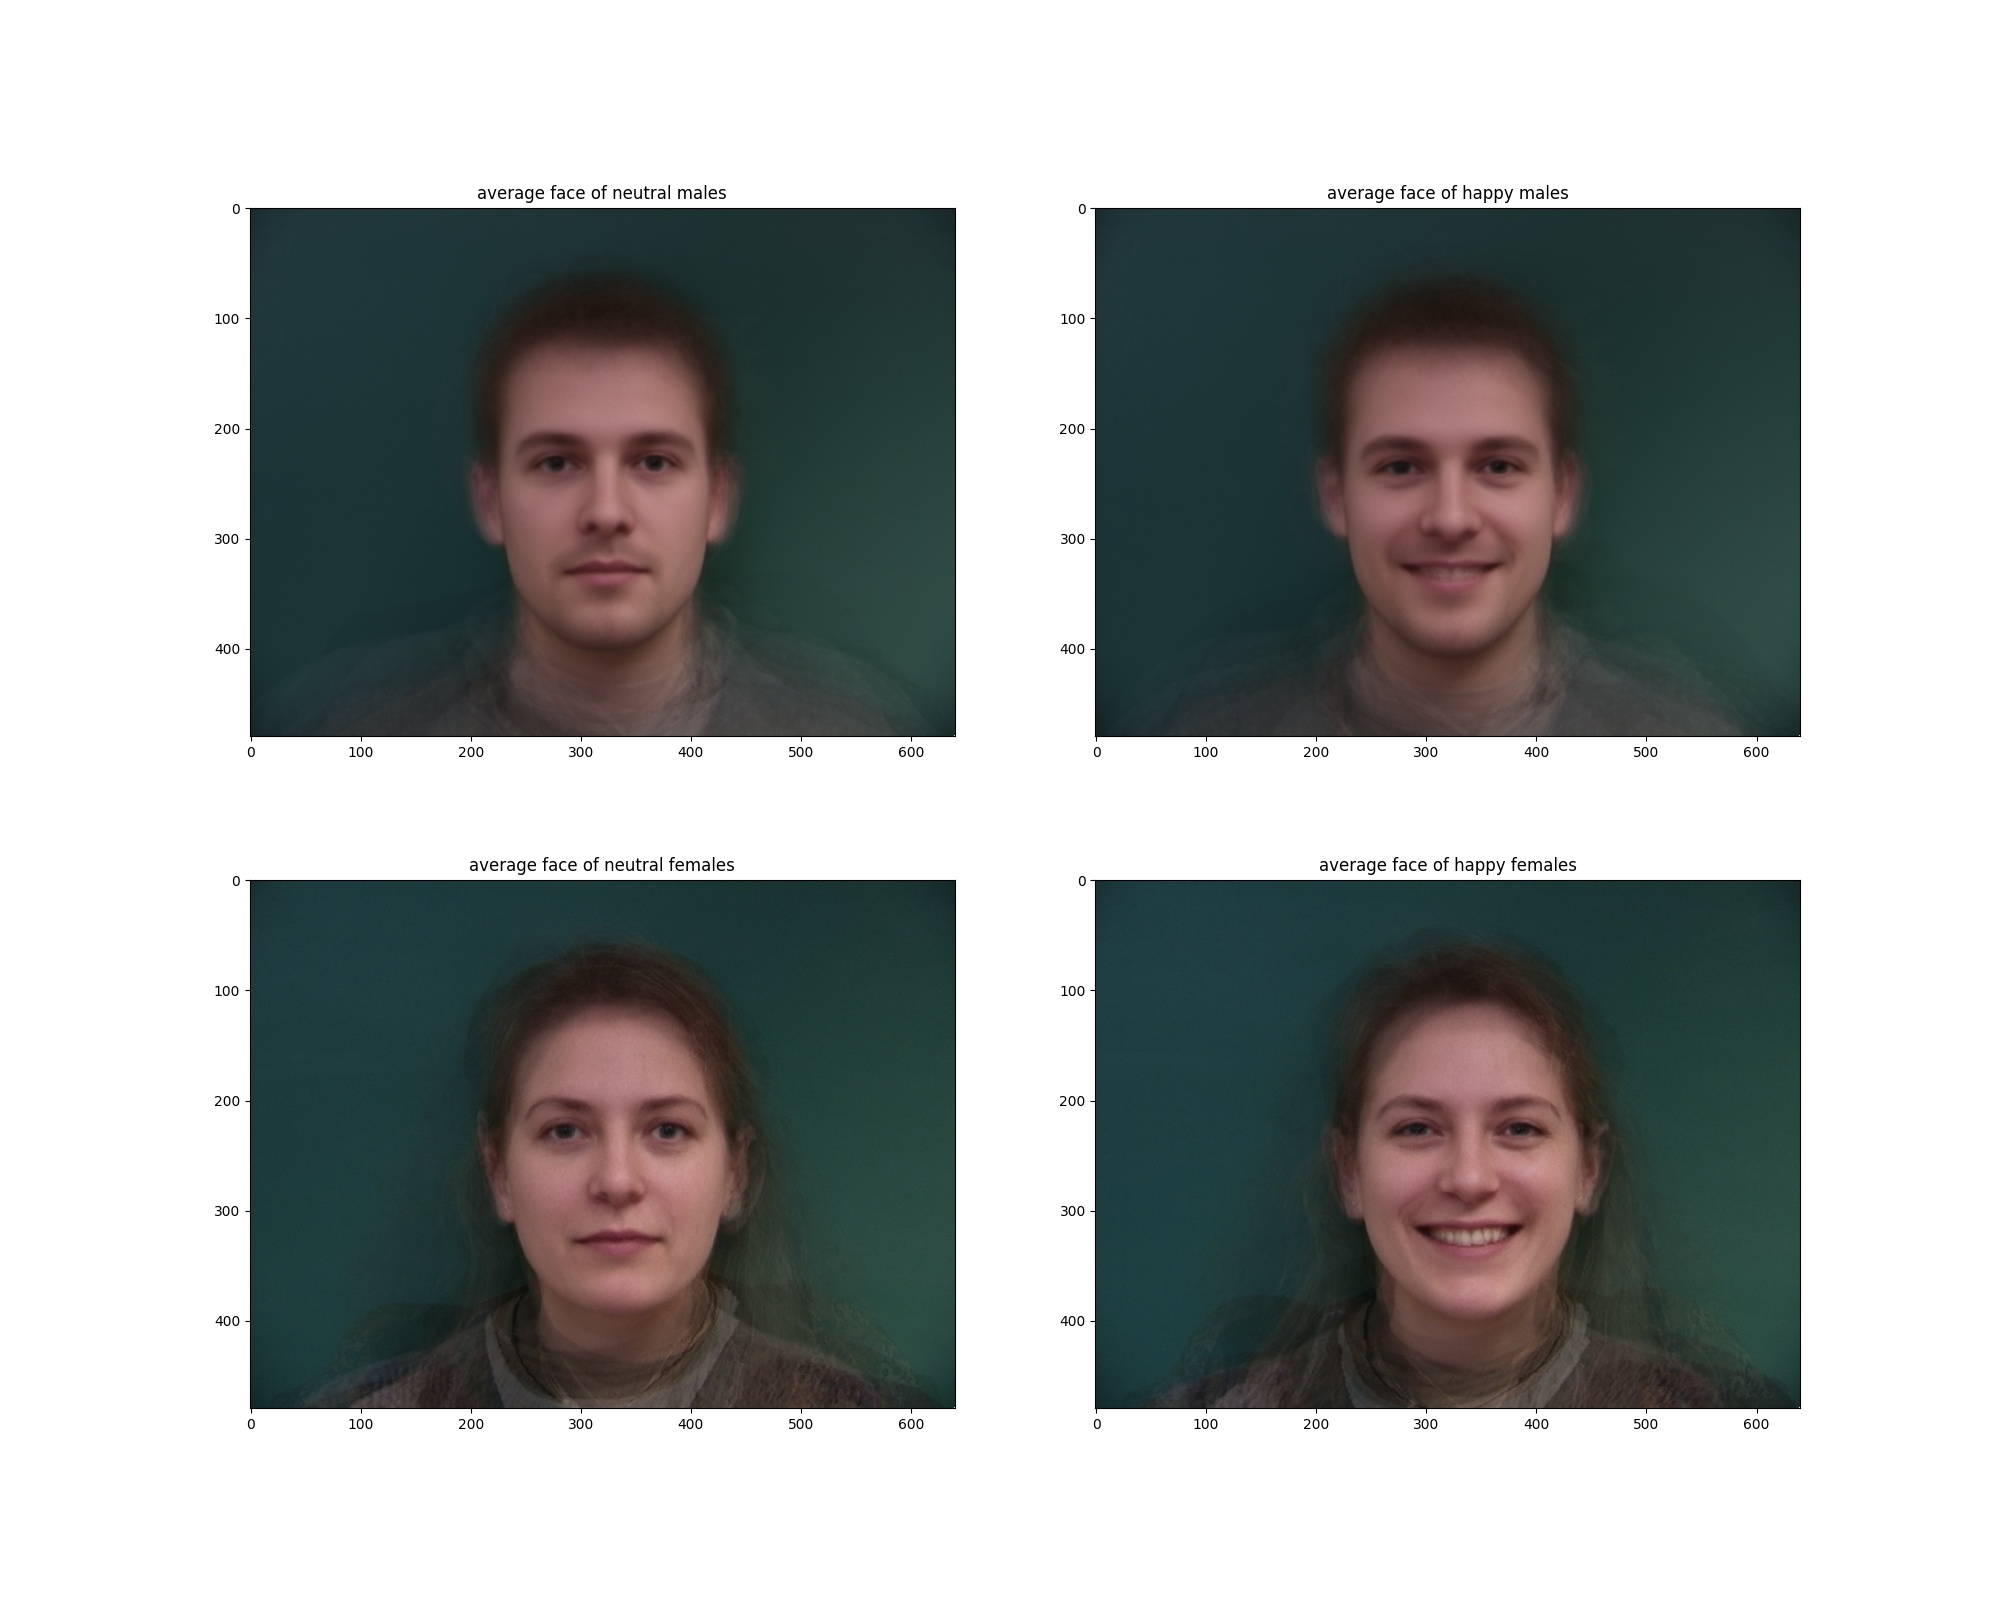
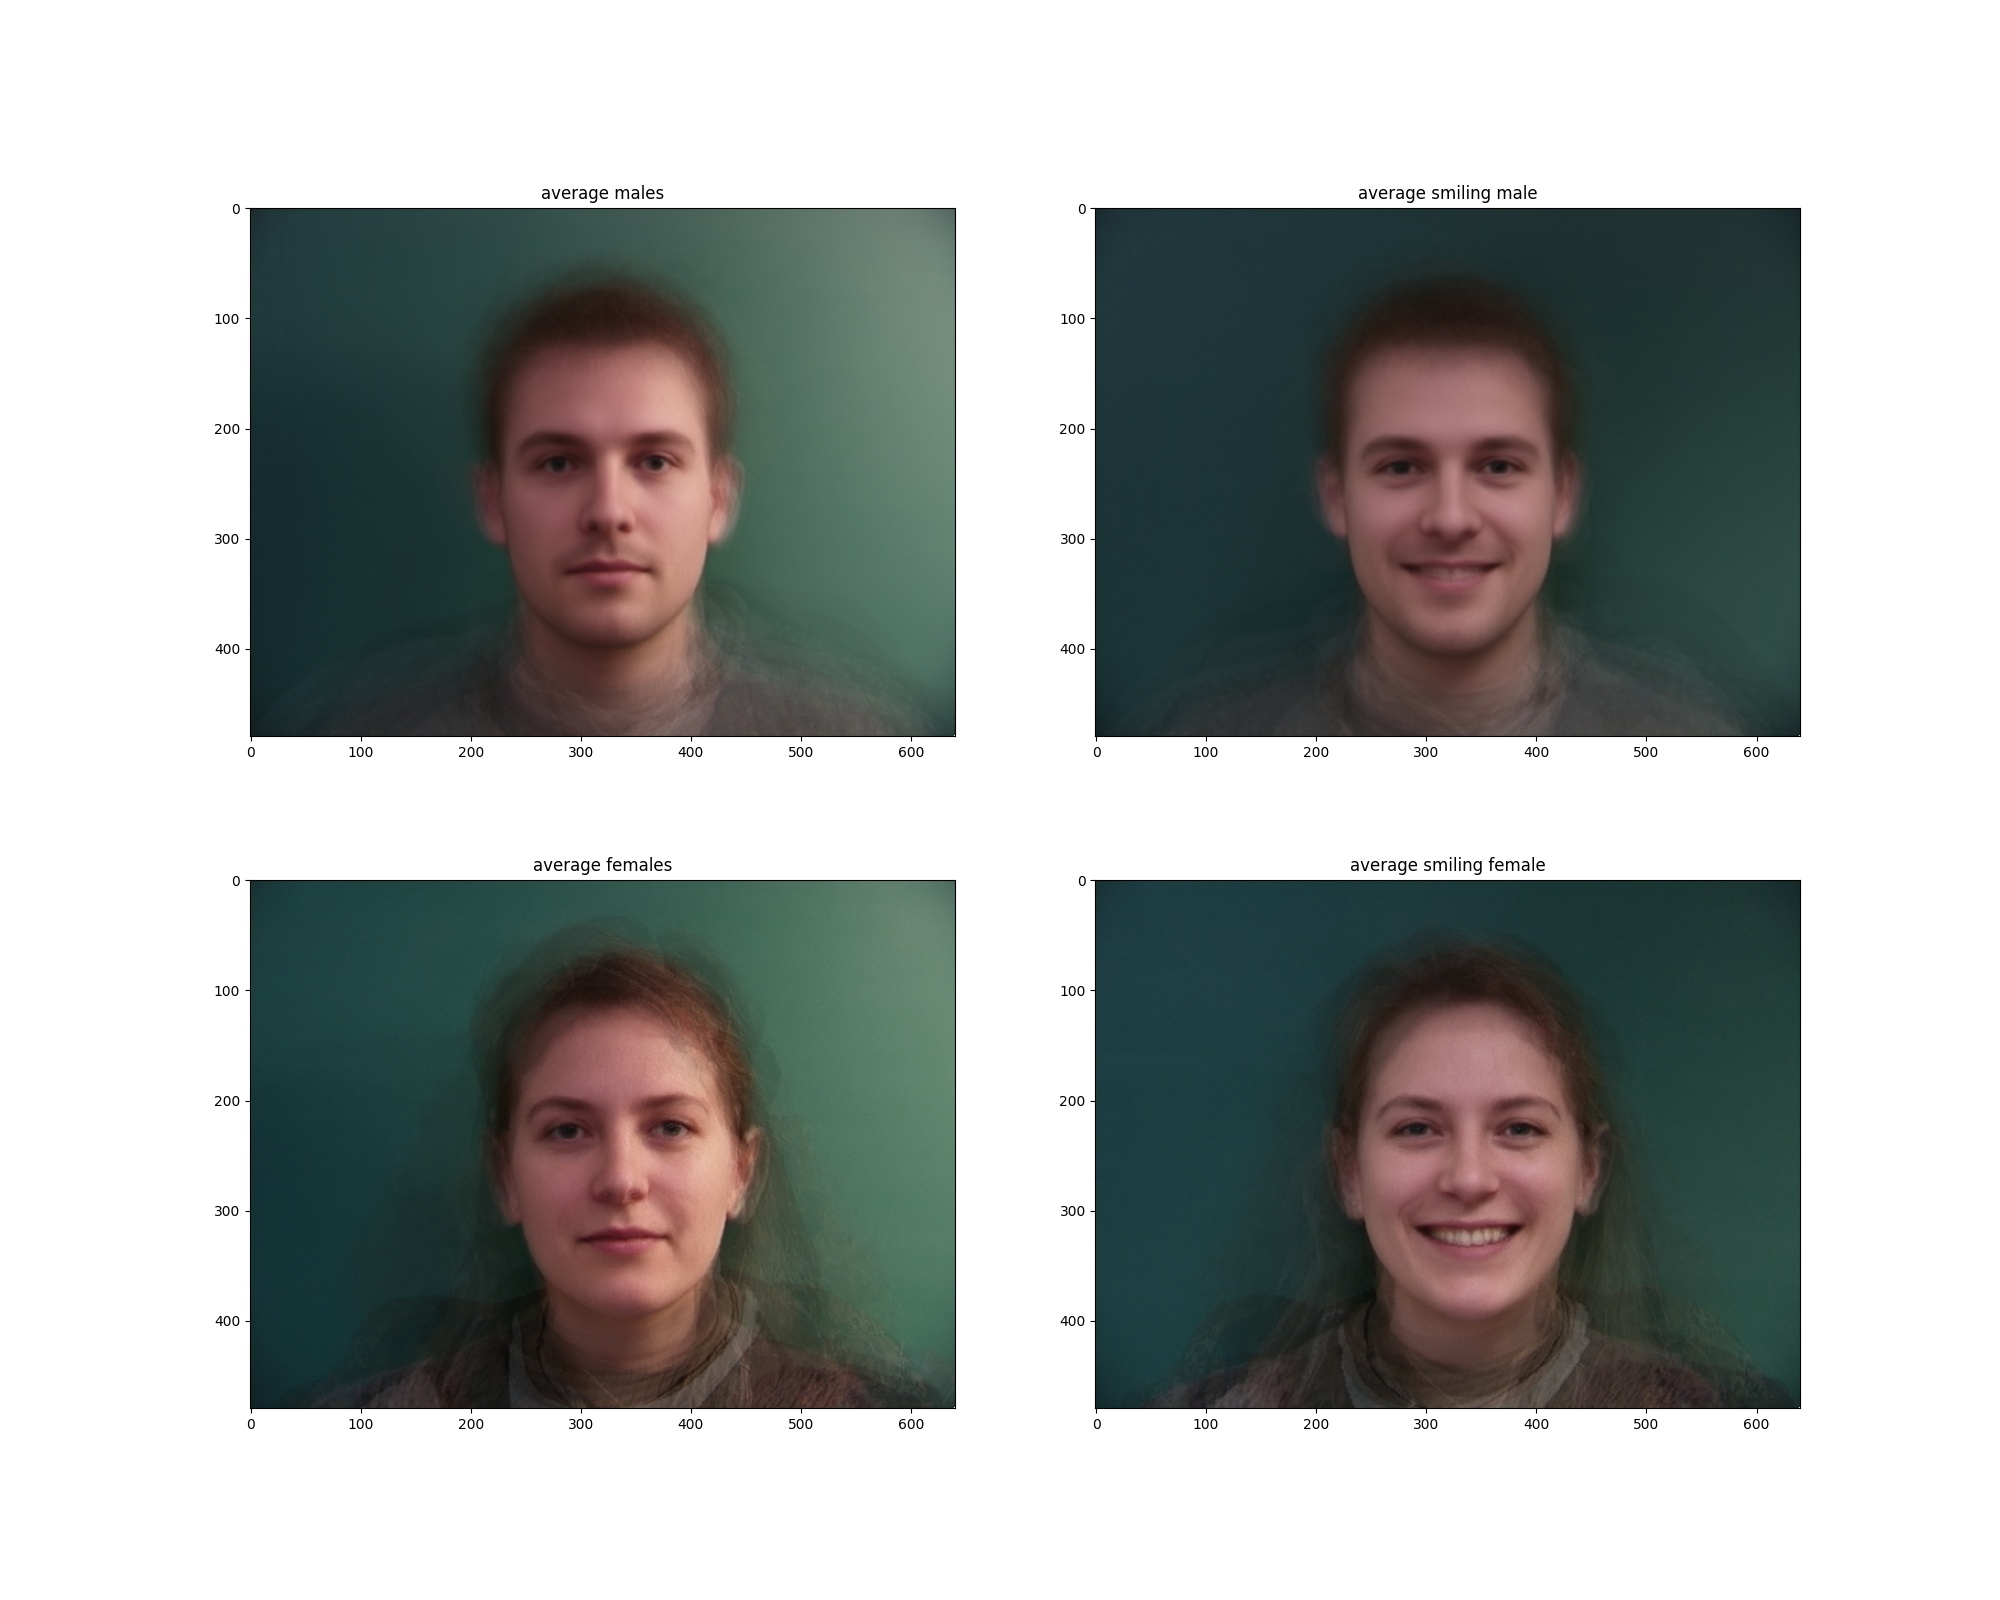
Update

diff --git a/main.py b/main.py
@@ -14,7 +14,8 @@ WIDTH = IMG_SHAPE[0]
 LENGTH = IMG_SHAPE[1]
 NUM_POINTS = 33
 
-def define_points(num_points, image):
+
+def select_points(num_points, image):
     plt.imshow(image)
     print("Select %d points." % num_points)
     points = np.array(plt.ginput(num_points, timeout=0))
@@ -34,8 +35,8 @@ if os.path.exists('target_points.npy'):
     target_points = np.load('target_points.npy')
     source_points = np.load('source_points.npy')
 else:
-    target_points = define_points(NUM_POINTS, target)
-    source_points = define_points(NUM_POINTS, source)
+    target_points = select_points(NUM_POINTS, target)
+    source_points = select_points(NUM_POINTS, source)
     # save points
     np.save("target_points.npy", target_points)
     np.save("source_points.npy", source_points)
@@ -43,16 +44,14 @@ else:
 
 # get the real matrix
 corners = np.array([
-    [0, 0],
-    [IMG_SHAPE[1]-1, 0],
-    [0, IMG_SHAPE[0]-1],
-    [IMG_SHAPE[1]-1, IMG_SHAPE[0]-1]
+    [0, 0], [LENGTH - 1, 0],
+    [0, WIDTH - 1], [LENGTH - 1, WIDTH-1]
 ])
 target_points = np.vstack([target_points, corners])
 source_points = np.vstack([source_points, corners])
 
 
-# triangulation
+# calculate triangulation
 mid_points = (target_points + source_points)/2
 triangulation = Delaunay(mid_points)
 
@@ -65,7 +64,7 @@ for i, (img, points) in enumerate(zip((target, source), (target_points, source_p
 
 plt.savefig('triangulation.jpg')
 
-
+# find the trans matrix
 def trans(points):
     vector1 = np.reshape((points[1] - points[0]), (2, 1))
     vector2 = np.reshape((points[2] - points[0]), (2, 1))
@@ -91,16 +90,16 @@ def compute_masks(target, source, target_points, source_points, triangulation, w
     masks = [np.zeros((WIDTH, LENGTH, 3)) for _ in range(3)]
     mid_pts = source_points + warp_frac * (target_points - source_points)
 
-    for tri_index in triangulation.simplices:
-        mid_tri = mid_pts[tri_index]
+    for index in triangulation.simplices:
+        mid_tri = mid_pts[index]
         v1, v2 = polygon(mid_tri[:, 0], mid_tri[:, 1])
         mid_basis = np.array([v1, v2])
         basis_mat = np.vstack([mid_basis, np.ones((1, mid_basis.shape[1]))])
 
-        tgt_basis = find_basis(target_points, tri_index, basis_mat, mid_tri)
+        tgt_basis = find_basis(target_points, index, basis_mat, mid_tri)
         masks[0][mid_basis[1], mid_basis[0]] = target[tgt_basis[1], tgt_basis[0]]
 
-        src_basis = find_basis(source_points, tri_index, basis_mat, mid_tri)
+        src_basis = find_basis(source_points, index, basis_mat, mid_tri)
         masks[2][mid_basis[1], mid_basis[0]] = source[src_basis[1], src_basis[0]]
 
     masks[1] = masks[2] + dissolve_frac * (masks[0] - masks[2])
@@ -108,23 +107,23 @@ def compute_masks(target, source, target_points, source_points, triangulation, w
 
 
 plt.figure(figsize=(15, 5))
-masks = compute_masks(target, source, target_points, source_points, triangulation, 0.5, 0.5)
+mid_faces = compute_masks(target, source, target_points, source_points, triangulation, 0.5, 0.5)
 for i in range(3):
     plt.subplot(1, 3, i + 1)
-    plt.imshow(masks[i])
-plt.savefig('midway_face.jpg')
+    plt.imshow(mid_faces[i])
+plt.savefig('mid_face.jpg')
 
 
-# generate morphing
+# generate morphing sequence
 NUM_FRAMES = 45
 results = []
 fig = plt.figure(figsize=(8, 10))
-for x in np.linspace(0, 1, NUM_FRAMES):
-    img = compute_masks(target, source, target_points, source_points, triangulation, x, x)[1]
+for frac in np.linspace(0, 1, NUM_FRAMES):
+    img = compute_masks(target, source, target_points, source_points, triangulation, frac, frac)[1]
     img = plt.imshow(img, animated=True)
     results.append([img])
 
-# generate animation and save
+# generate gif
 vid = animation.ArtistAnimation(
     fig,
     results,
@@ -132,35 +131,33 @@ vid = animation.ArtistAnimation(
     blit=True,
     repeat_delay=1000
 )
-vid.save('morphing.gif', fps=30)
-vid.save('morphing_slowmo.gif', fps=10)
+vid.save('morphing.gif', fps=20)
+vid.save('morphing_slow.gif', fps=10)
 
 
-
-
-
-
-# mean of a population
-
+# calculate mean of a population
 DIR = 'DB'
+img1 = plt.imread('DB/01-1m.jpg')
+W = img1.shape[0]
+L = img1.shape[1]
+corners = np.array([
+    [0, 0], [L-1, 0],
+    [0, W-1], [L-1, W-1]
+])
 
-def get_pts_from_file(filename, pad=True):
-    im = plt.imread('DB/01-1m.jpg')
 
+# get the points from dataset files
+def get_points(filename):
     data = open(filename, 'r').readlines()[16:74]
     data = [l.split('\t')[2:4] for l in data]
     relative_points = np.array(data).astype(float)
 
-    real_points = np.multiply(np.array([im.shape[1], im.shape[0]]), relative_points)
-    if pad:
-        corners = np.array([
-            [0, 0],
-            [im.shape[1]-1, 0], [0, im.shape[0]-1],
-            [im.shape[1]-1, im.shape[0]-1]
-        ])
-        real_points = np.vstack([real_points, corners])
+    real_points = np.multiply(np.array([L, W]), relative_points)
+    real_points = np.vstack([real_points, corners])
     return real_points
 
+
+# load all images with given keyword
 def load_imgs(keyword):
     images = []
     points = []
@@ -168,7 +165,7 @@ def load_imgs(keyword):
         basename, ext = os.path.splitext(filename)
         if keyword in basename and ext == '.jpg':
             images.append(plt.imread(os.path.join(DIR, filename)) / 255.)
-            pts = get_pts_from_file(os.path.join(DIR, basename + '.asf'))
+            pts = get_points(os.path.join(DIR, basename + '.asf'))
             points.append(pts)
     return images, points
 
@@ -192,7 +189,7 @@ def get_mean_face(images, pts):
 
     return result, mean_pts
 
-keywords = ['1m', '2m', '1f', '2f']
+keywords = ['5m', '2m', '5f', '2f']
 images = []
 points = []
 mean_faces = []
@@ -204,15 +201,14 @@ for i, keyword in enumerate(keywords):
 
     mean_face, mean_pts = get_mean_face(imgs, pts)
     mean_faces.append(mean_face)
-
     mean_points.append(mean_pts)
 
 # plot average faces
 titles = [
-    'average face of neutral males',
-    'average face of happy males',
-    'average face of neutral females',
-    'average face of happy females'
+    'average males',
+    'average smiling male',
+    'average females',
+    'average smiling female'
 ]
 plt.figure(figsize=(20, 16))
 for i in range(4):
@@ -237,6 +233,7 @@ def compute_warp(img_src, points_src, points_tgt, a=1.):
     points_mean = points_src + (points_tgt - points_src) / 2
     points_tgt = points_src + (points_tgt - points_src) * a
     triangulation = Delaunay(points_mean)
+    
     result = np.zeros((img_src.shape[0], img_src.shape[1], 3))
     for index in triangulation.simplices:
         triangle_tgt = points_tgt[index]
@@ -254,10 +251,10 @@ def compute_warp(img_src, points_src, points_tgt, a=1.):
 
 PID = 0
 titles = [
-    'neutral male',
-    'happy male',
-    'neutral female',
-    'happy female'
+    'male',
+    'smiling male',
+    'female',
+    'smiling female'
 ]
 plt.figure(figsize=(32, 10))
 for i in range(4):
@@ -270,6 +267,7 @@ for i in range(4):
     img = compute_warp(images[i][PID], points[i][PID], mean_points[i])
     plt.imshow(img)
 plt.savefig('DB/warp_to_mean.jpg')
+
 
 cropped_mean_faces = []
 cropped_mean_points = []
@@ -287,13 +285,14 @@ for face, pts in zip(mean_faces, mean_points):
     cropped_mean_faces.append(cropped_face)
     cropped_mean_points.append(cropped_points)
 
+
 # get coordinates
-img_source = sk.transform.resize(plt.imread('me.jpg'), cropped_mean_faces[0].shape)
+img_source = sk.transform.resize(plt.imread('me2.jpg'), cropped_mean_faces[0].shape)
 
 if os.path.exists('source_points_58.npy'):
     source_points = np.load('source_points_58.npy')
 else:
-    source_points = define_points(58, img_source)
+    source_points = select_points(58, img_source)
     padding = np.array([
         [0, 0],
         [img_source.shape[1] - 1, 0],
@@ -316,6 +315,6 @@ for i in range(4):
     plt.title(titles[i] + ' to me')
     img_from_avg = compute_warp(cropped_mean_faces[i], cropped_mean_points[i], source_points)
     plt.imshow(img_from_avg)
-plt.savefig('me_vs_avg.jpg')
+plt.savefig('warp_my_face.jpg')
 
 

diff --git a/test.py b/test.py
@@ -25,7 +25,7 @@ def define_points(num_points, image):
 
 
 
-img_source = sk.transform.resize(plt.imread('me.jpg'), [380,304])
+img_source = sk.transform.resize(plt.imread('me2.jpg'), [380,304])
 
 
 if os.path.exists('source_points_58.npy'):
@@ -41,34 +41,3 @@ else:
     source_points = np.vstack([source_points, padding])
     np.save('source_points_58.npy', source_points)
 
-
-
-
-
-def find_basis(points, index, basis_mat, mid_tri):
-    tri = points[index]
-    trans_mat = np.linalg.inv(computeAffine(tri, mid_tri))
-    new_basis = np.dot(trans_mat, basis_mat).astype(int)
-    return new_basis
-
-
-def compute_masks(target, source, target_points, source_points, triangulation, warp_frac, dissolve_frac):
-    if warp_frac < 0 or warp_frac > 1 or dissolve_frac < 0 or dissolve_frac > 1:
-        return None
-
-    masks = [np.zeros((WIDTH, LENGTH, 3)) for _ in range(3)]
-    mid_pts = source_points + warp_frac * (target_points - source_points)
-
-    for tri_index in triangulation.simplices:
-        mid_tri = mid_pts[tri_index]
-        mid_basis = np.array([polygon(mid_tri[:, 0], mid_tri[:, 1])])
-        basis_mat = np.vstack([mid_basis, np.ones((1, mid_basis.shape[1]))])
-
-        tgt_basis = find_basis(target_points, tri_index, basis_mat, mid_tri)
-        masks[0][mid_basis[1], mid_basis[0]] = target[tgt_basis[1], tgt_basis[0]]
-
-        src_basis = find_basis(source_points, tri_index, basis_mat, mid_tri)
-        masks[2][mid_basis[1], mid_basis[0]] = source[src_basis[1], src_basis[0]]
-
-    masks[1] = masks[2] + dissolve_frac * (masks[0] - masks[2])
-    return masks
